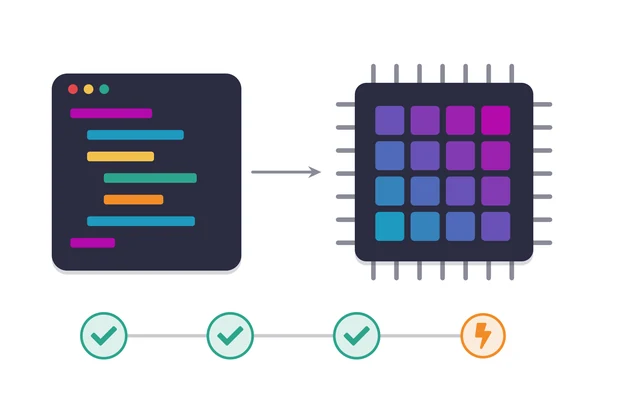
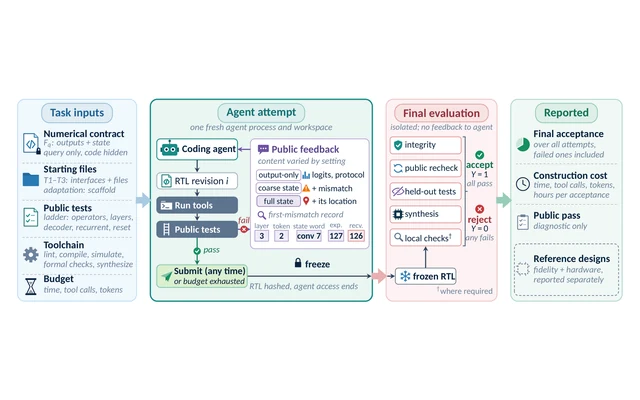
Update AIChipBench title, author order, and thumbnail
Match the current draft: new title, Chengran Li before Minchen Luo, and
Fig. 1 of the draft as the thumbnail in place of the TikZ stand-in.

diff --git a/index.html b/index.html
@@ -100,11 +100,11 @@
             <p class="publication-venue">Preprint. Under review, ICLR 2027</p>
           </div>
         </li>
-        <li id="aichipbench-state-aware-evaluation-of-coding-agents-for-ai-accelerators">
+        <li id="aichipbench-benchmarking-llm-agents-for-automated-ai-accelerator-design">
           <a class="publication-thumb" href="https://openreview.net/forum?id=Qcpj94Y3zm" tabindex="-1" aria-hidden="true"><img src="images/publications/aichipbench.webp" alt="" width="640" height="400" loading="lazy" decoding="async"></a>
           <div class="publication-body">
-            <h3 class="publication-title"><a href="https://openreview.net/forum?id=Qcpj94Y3zm">AIChipBench: State-Aware Evaluation of Coding Agents for AI Accelerators</a></h3>
-            <p class="publication-authors"><span class="self">Guangyuan Wang</span>, Minchen Luo, Chengran Li, Jichen Feng, Mengdi Wang<sup>†</sup>, Yifan Zhang<sup>†</sup></p>
+            <h3 class="publication-title"><a href="https://openreview.net/forum?id=Qcpj94Y3zm">AIChipBench: Benchmarking LLM Agents for Automated AI Accelerator Design</a></h3>
+            <p class="publication-authors"><span class="self">Guangyuan Wang</span>, Chengran Li, Minchen Luo, Jichen Feng, Mengdi Wang<sup>†</sup>, Yifan Zhang<sup>†</sup></p>
             <p class="publication-venue">Preprint. Under review, ICLR 2027</p>
           </div>
         </li>
